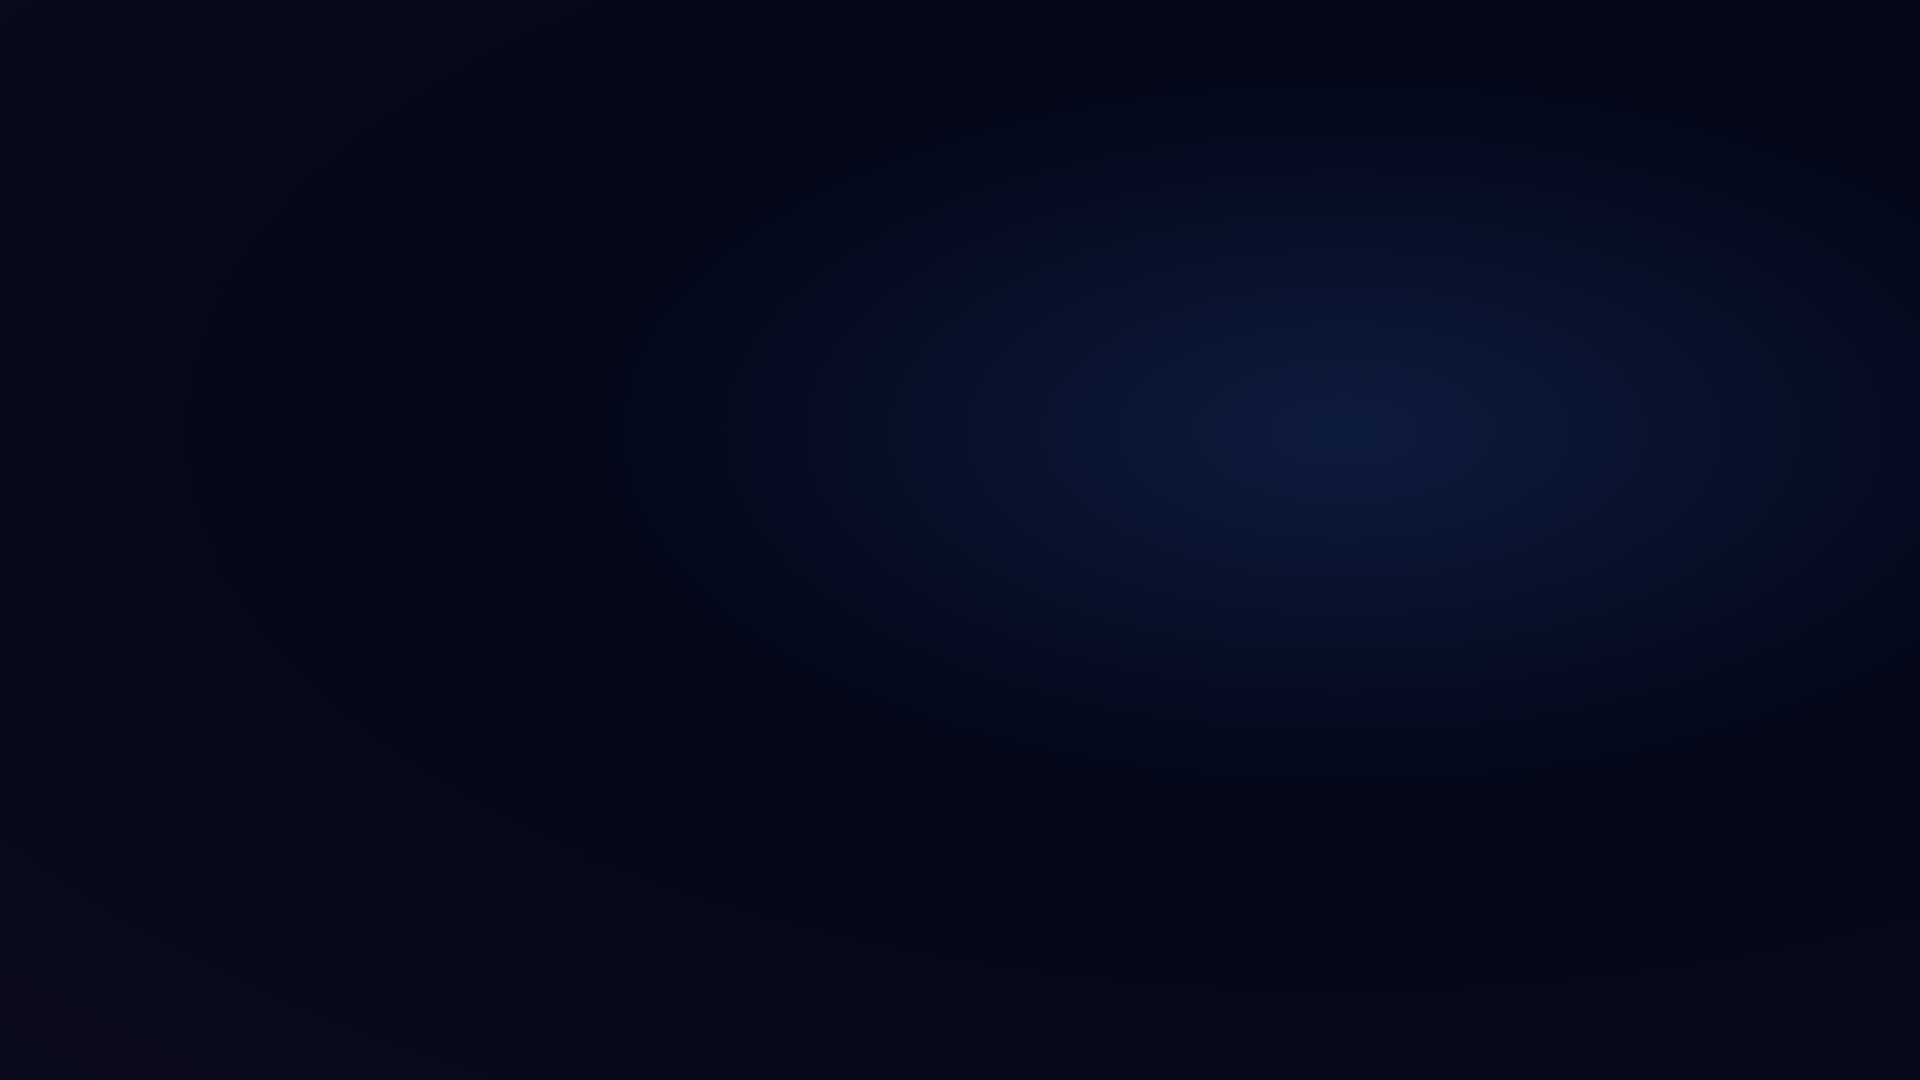
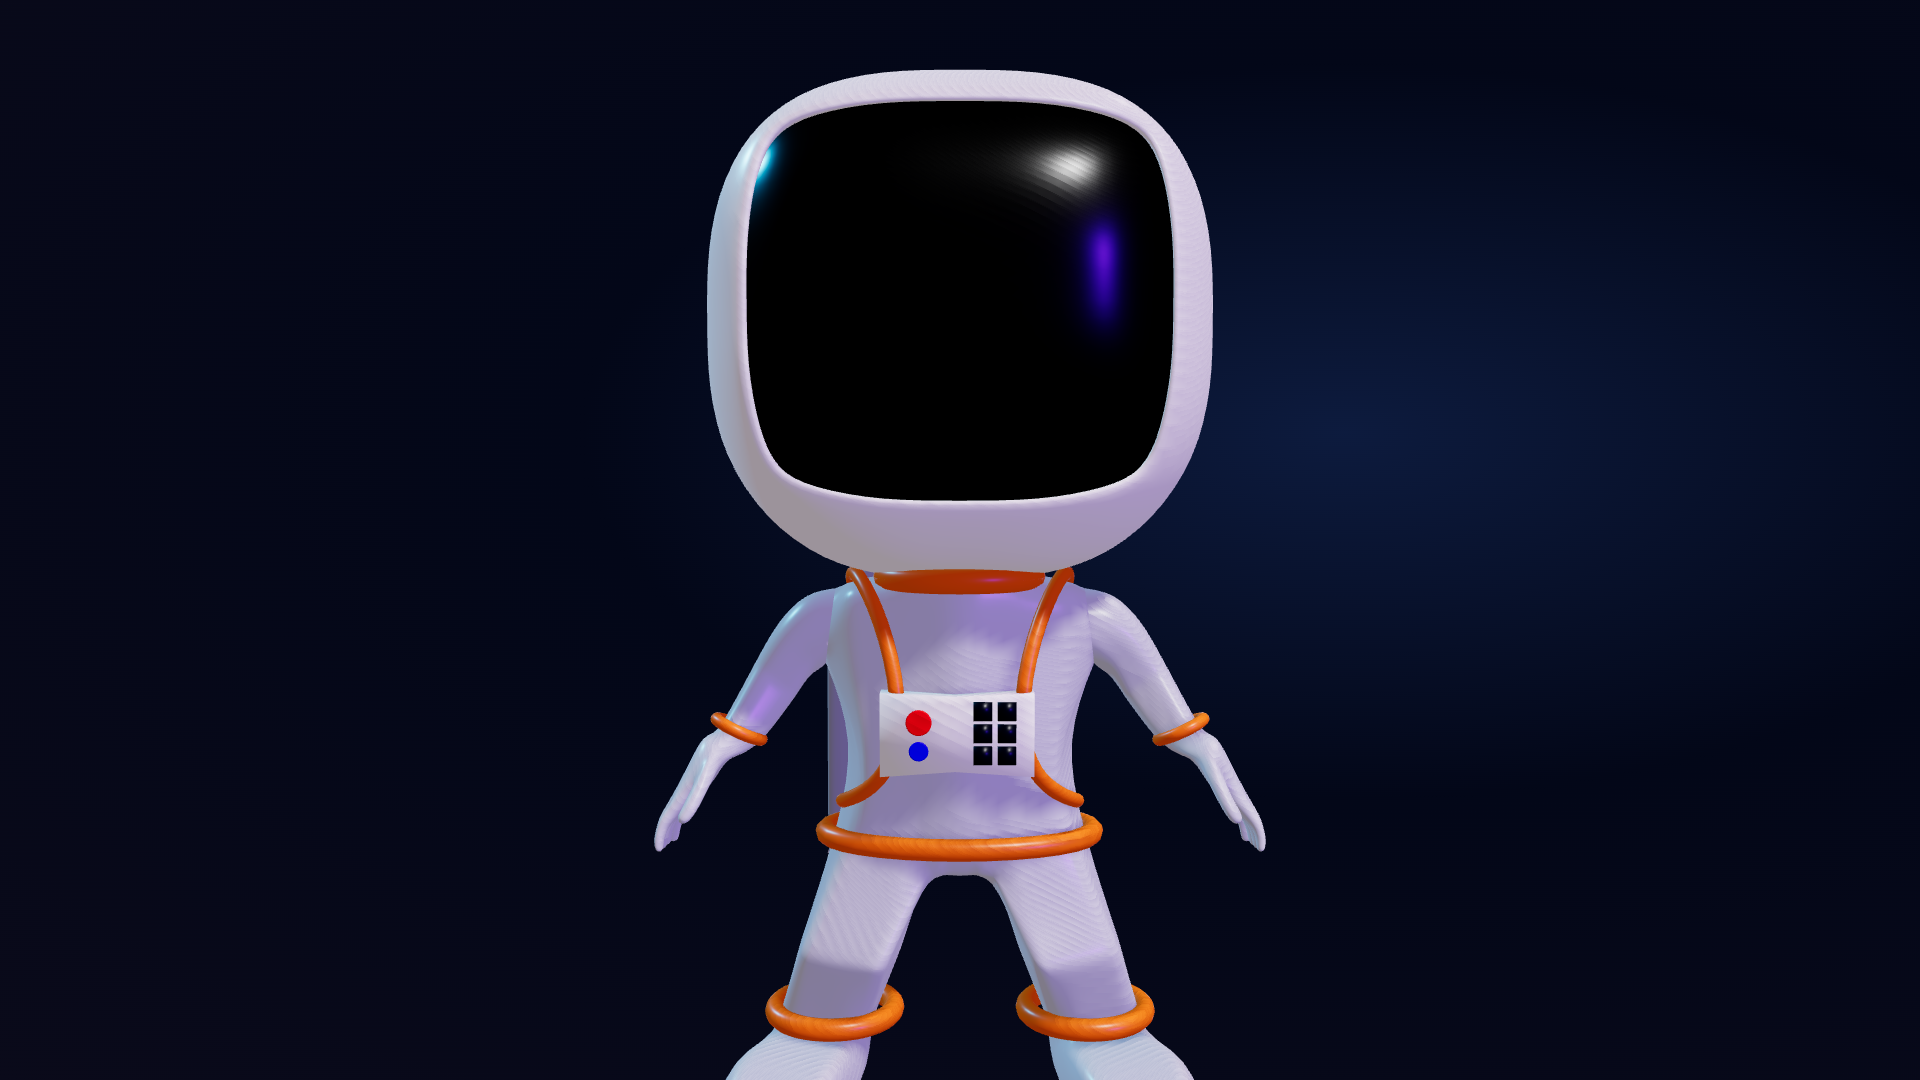
Fix character thumbnails: Corrected model paths and regenerated images

Changed region(s): [[0.3438, 0.0611, 0.6562, 1.0]]

diff --git a/public/model-viewer.html b/public/model-viewer.html
@@ -31,7 +31,7 @@ const model = params.get('model') || 'astranaut';
 
 const MODEL_CONFIG = {
   astranaut: {
-    url: '/projects/character/astranaut.glb',
+    url: '/projects/character/astranaut/astranaut.glb',
     bg: 'radial-gradient(ellipse at 70% 40%, #0d1b3e 0%, #030718 40%, #0a0a1a 100%)',
     camPos: [0, 0.5, 4],
     target: [0, 0.3, 0],
@@ -40,7 +40,7 @@ const MODEL_CONFIG = {
     fillColor: '#7B2FFF',
   },
   asvind: {
-    url: '/projects/character/asvind.glb',
+    url: '/projects/character/asvind/asvind.glb',
     bg: 'radial-gradient(ellipse at 30% 60%, #001a1a 0%, #020d12 50%, #030a08 100%)',
     camPos: [0, 0.5, 4],
     target: [0, 0.3, 0],
@@ -49,7 +49,7 @@ const MODEL_CONFIG = {
     fillColor: '#005533',
   },
   miles: {
-    url: '/projects/character/miles_character.glb',
+    url: '/projects/character/miles/miles_character.glb',
     bg: 'radial-gradient(ellipse at 50% 50%, #1a0010 0%, #0d0008 50%, #050002 100%)',
     camPos: [0, 0.5, 4],
     target: [0, 0.3, 0],
